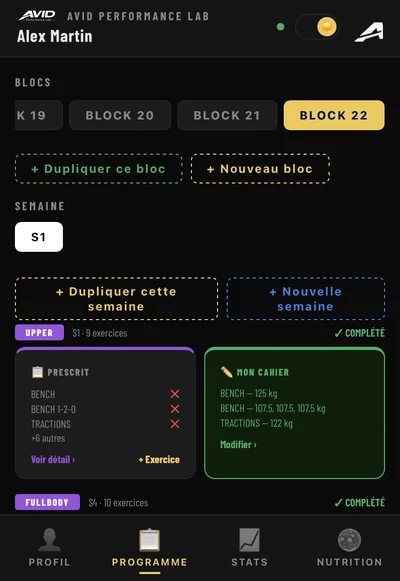
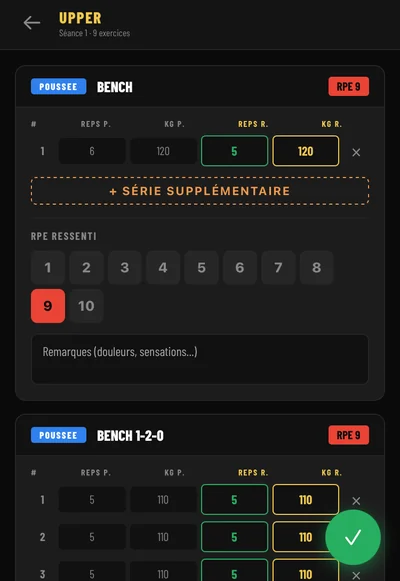
Add files via upload

diff --git a/index.html b/index.html
@@ -882,7 +882,7 @@
       </div>
       <div class="produit-card has-media">
         <figure class="shot produit-media produit-media--phone" data-label="App athlète coaché">
-          <img src="img/card-coache.webp" alt="App athlète coaché AVID : séance prescrite par le coach et cahier de l'athlète" width="400" height="581" loading="lazy" decoding="async" onerror="this.parentNode.classList.add('is-empty');this.remove()">
+          <img src="img/card-coache.webp" alt="App athlète coaché AVID : saisie d'une séance avec séries, charges et RPE" width="400" height="581" loading="lazy" decoding="async" onerror="this.parentNode.classList.add('is-empty');this.remove()">
         </figure>
         <div class="produit-number bc">02 — ATHLÈTE</div>
         <div class="produit-icon">📱</div>
@@ -901,7 +901,7 @@
       </div>
       <div class="produit-card has-media">
         <figure class="shot produit-media produit-media--phone" data-label="App athlète solo">
-          <img src="img/card-solo.webp" alt="App athlète solo AVID : saisie d'une séance avec séries, charges et RPE" width="400" height="581" loading="lazy" decoding="async" onerror="this.parentNode.classList.add('is-empty');this.remove()">
+          <img src="img/card-solo.webp" alt="App athlète solo AVID : programme par blocs et semaines, séances prescrites et cahier" width="400" height="581" loading="lazy" decoding="async" onerror="this.parentNode.classList.add('is-empty');this.remove()">
         </figure>
         <div class="produit-number bc">04 — SOLO</div>
         <div class="produit-icon">🎯</div>
@@ -957,7 +957,7 @@
         <div class="section-tag"><div class="section-tag-line"></div>L'histoire</div>
         <h2 class="section-title bc">10 ANS<br>DE TERRAIN.<br><span class="accent">1 OUTIL.</span></h2>
         <p class="histoire-text">Tout a commencé avec un fichier Excel de plus en plus tordu. 10 ans d'entraînement, 6 ans d'accompagnement bénévole en association sportive.</p>
-        <p class="histoire-text">Quand les athlètes me demandaient <strong>« est-ce que je progresse ? »</strong>, je fouillais 4 fichiers pour répondre. Il fallait un vrai outil — pas un logiciel générique. Quelque chose de simple, intuitif et efficace, qui laisse la place à l'essentiel.</p>
+        <p class="histoire-text"><strong>Fouiller 4 fichiers ou des notes éparses ?</strong> Fastidieux, brouillon, impossible à tenir dans la durée. Il fallait un vrai outil — pas un logiciel générique. Quelque chose de simple, intuitif et efficace, qui laisse la place à l'essentiel.</p>
         <p class="histoire-text">AVID Performance Lab, c'est ce fichier Excel devenu une vraie plateforme. Construit sur le terrain, pour le terrain.</p>
       </div>
       <div>
